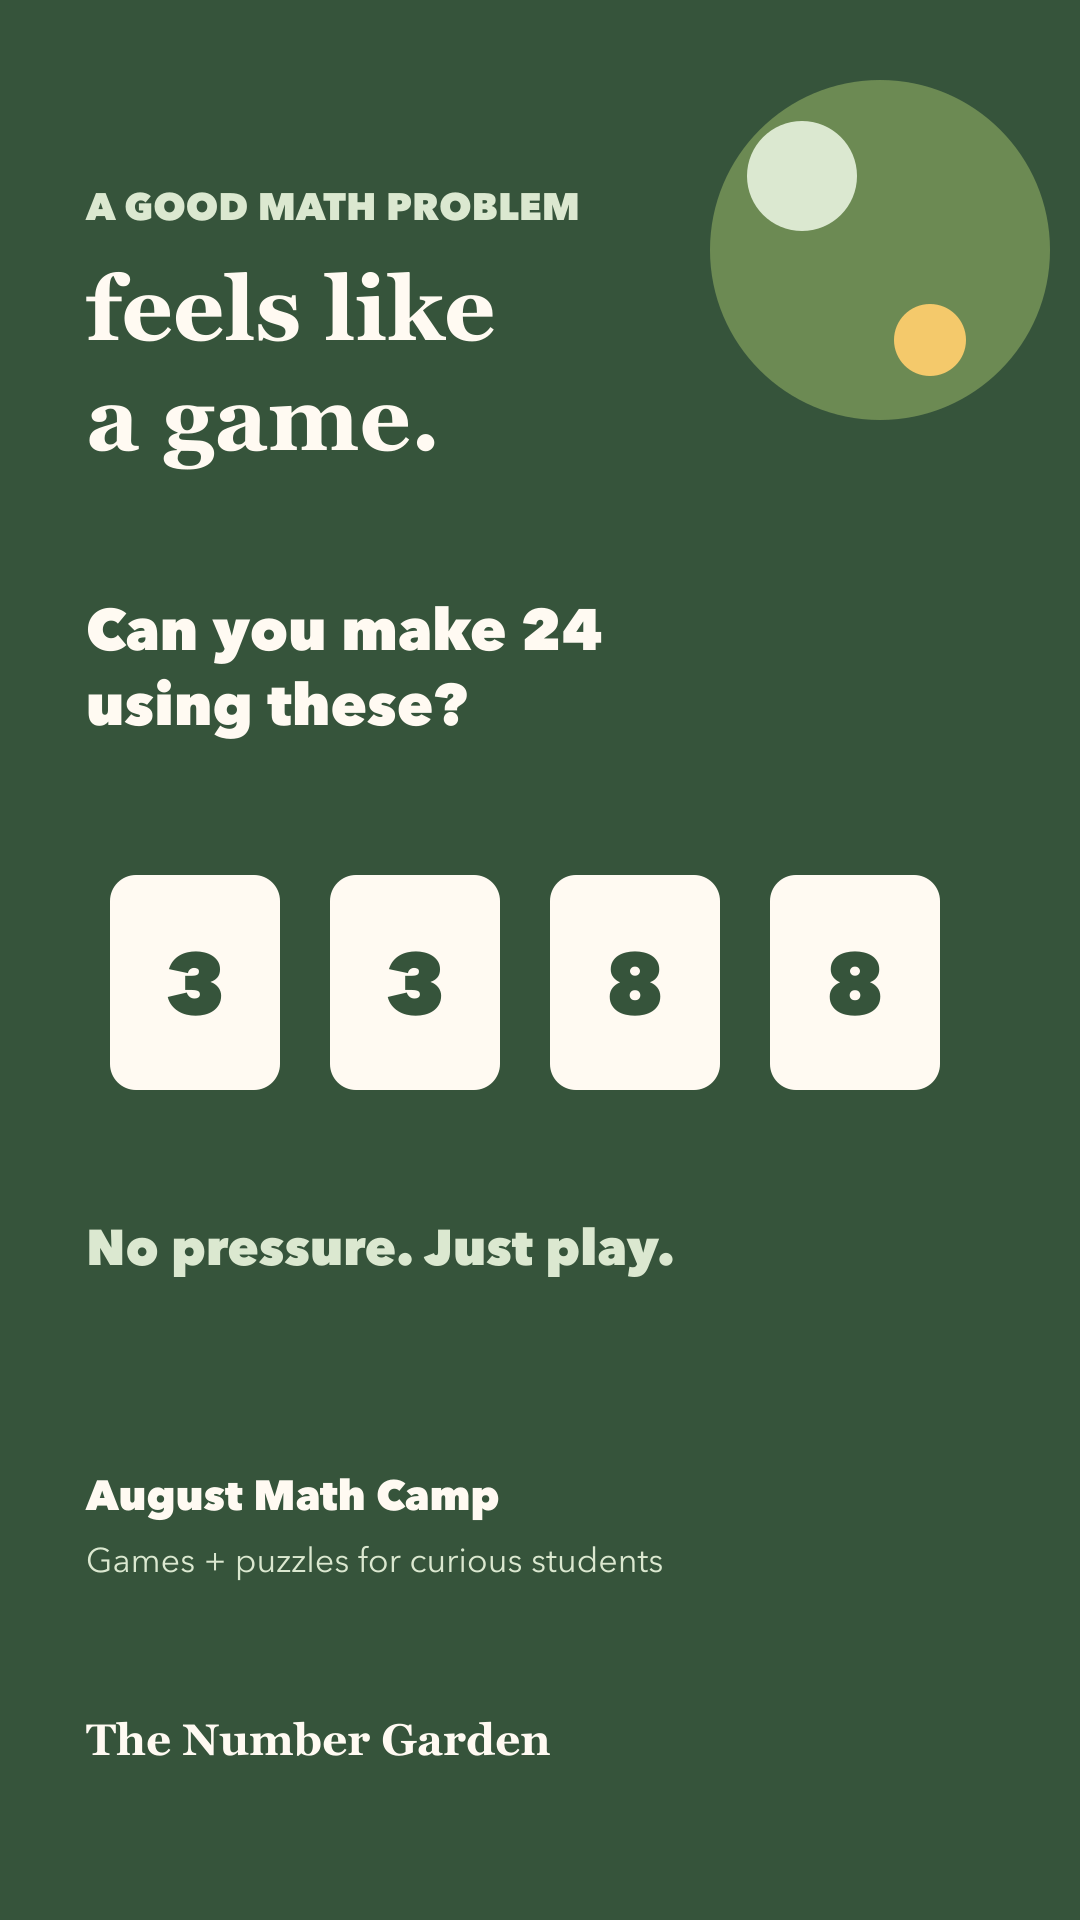
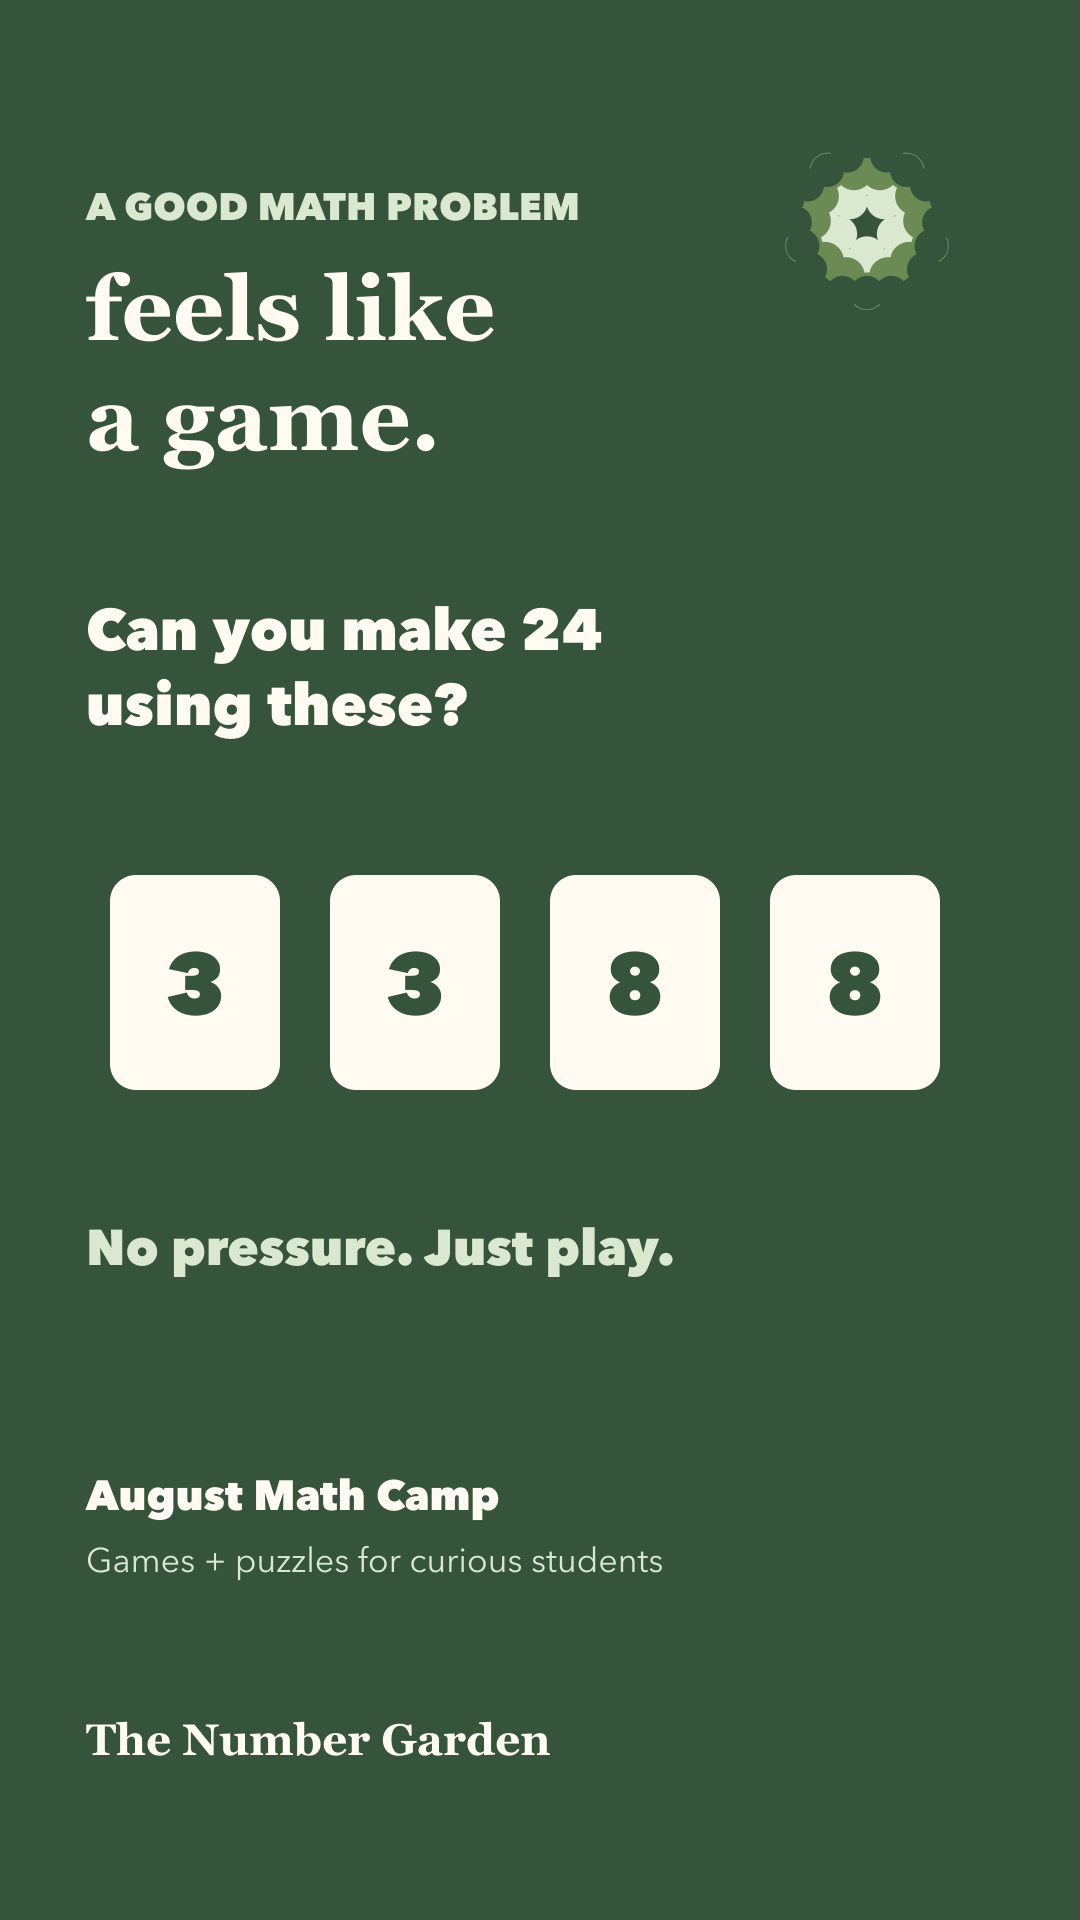
Refine week 1 packet review details

Changed region(s): [[0.6417, 0.0312, 0.9778, 0.2188]]

diff --git a/content-calendar/publish-packets/2026-06-17-week-1-camp-launch/README.md b/content-calendar/publish-packets/2026-06-17-week-1-camp-launch/README.md
@@ -13,7 +13,7 @@ Default link:
 ## Review checklist
 
 - Confirm the inclusive language feels right.
-- Confirm whether Facebook posts should use the camp landing page, the Facebook event, or both.
+- Confirm that all CTAs should point to the camp landing page.
 - Confirm whether the second reel can be a simple prompt/graphic reel, or whether it should wait for phone footage.
 - Confirm dates and times:
   - August 10-14, 2026